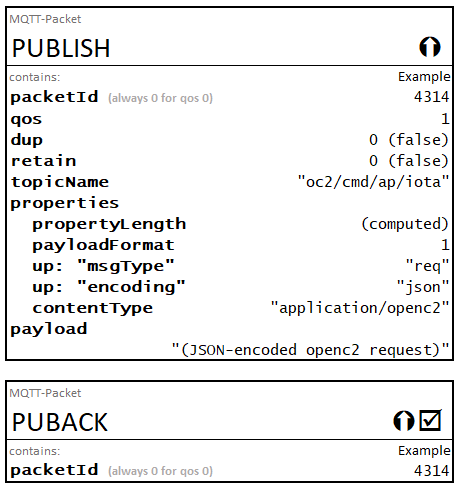
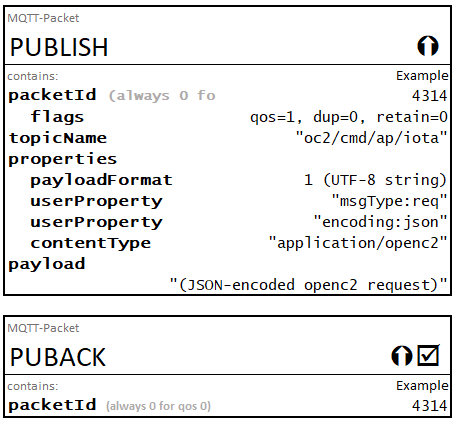
Updates for representation of User Properties

Changed region(s): [[0.0, 0.0, 1.0, 1.0], [0.5538, 0.247, 0.6462, 0.3088]]

diff --git a/transf-mqtt-v1.0.md b/transf-mqtt-v1.0.md
@@ -225,6 +225,29 @@ Example:
 PUT AN EXAMPLE HERE
 ```
 
+### 1.5.3 MQTT Data Representation
+
+Section 1.5 of the MQTT v5.0 specification 
+[[MQTT-v5.0](#mqtt-v50)] defines data types relevant to the protocol. Implementations of this specification are assumed to encode and decode those data types as defined in the MQTT specification. 
+
+In this specification, the UTF-8 String Pair data type is of particular interest, as MQTT v5.0 User Properties are utilized.  Within this document, the representation for a UTF-8 String Pair User Property is `"key:value"`.
+
+Per the MQTT specification, sections 1.5.4 and 1.5.7, each string is encoded with a 2-byte length followed by the UTF-8 encoding of the string, so the general form of a UTF-8 String Pair is:  
+
+ * 0x26 (identifier for User Property)
+ * 2-byte length of first string
+ * UTF-8 encoding of first string
+ * 2-byte length of second string
+ * UTF-8 encoding of second string
+
+For the example above, the encoding would be:
+
+```
+[0x26][0x00][x03]key[0x00][x05]value
+```
+
+
+
 ## 1.6 Overview
 OpenC2 is a suite of specifications to command actuators that execute cyber defense functions.  These specifications include the OpenC2 Language Specification, Actuator Profiles (APs), and Transfer Specifications. The OpenC2 Language Specification and Actuator Profile specifications focus on the language content and meaning at the producer and consumer of the command and response while the transfer specifications focus on the protocols for their exchange.  
 In general, there are two types of participants involved in the exchange of OpenC2 messages, as depicted in Figure 1-1:
@@ -493,7 +516,7 @@ OpenC2 messages are conveyed in the payload of MQTT `PUBLISH` control packets.  
 * `Payload Format Indicator`:  This property is used to distinguish binary vs. UTF-8 encoded strings for the payload format, as specified in section 3.3.2.3.2 of the MQTT specification, and should be set as appropriate for the message serialization used.
 * `Content Type`: a UTF-8 Encoded String describing the content of the Application Message. For OpenC2 messages, the string `"application/openc2"` is used.
 
-* `User Property`:  two user properties are defined to further specify the message format:
+* `User Property`:  two User Properties are defined to further specify the message format:
   * `msgType`:  a UTF-8 string used to identify the type of OpenC2 message, as described in section 3.2 of the OpenC2 Language Specification.  Legal values are  `"req"` (request), `"rsp"` (response), or `"ntf"` (notification)
   * `encoding`:  a UTF-8 string used to identify the specific text or binary encoding of the message. Legal values are `"json"` and `"cbor"`.
 
@@ -988,7 +1011,6 @@ for each of the publishing exchanges in Figure A-PRR, as that
 value is assigned by the initiator of each exchange:
 
 ![PUBLISH and PUBACK](./images/pub-and-puback.png)
-
 
 # Appendix X: Acronyms
 
